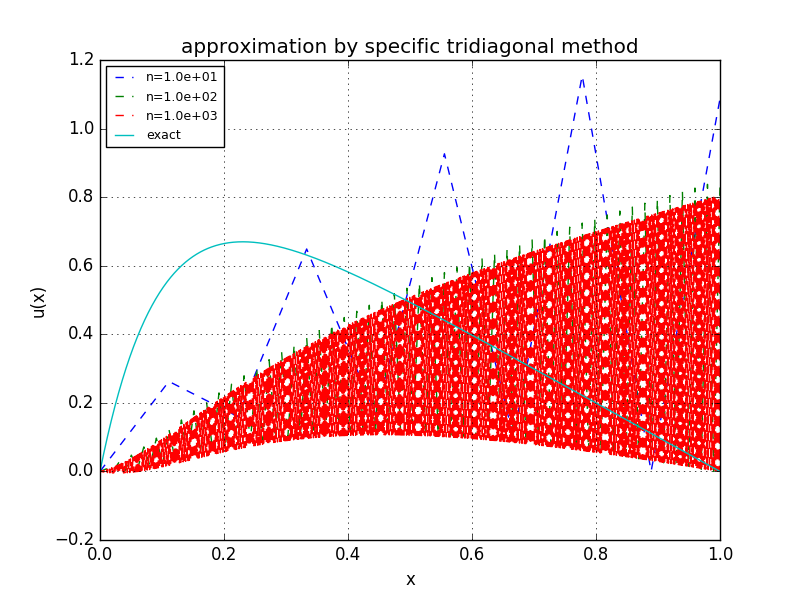
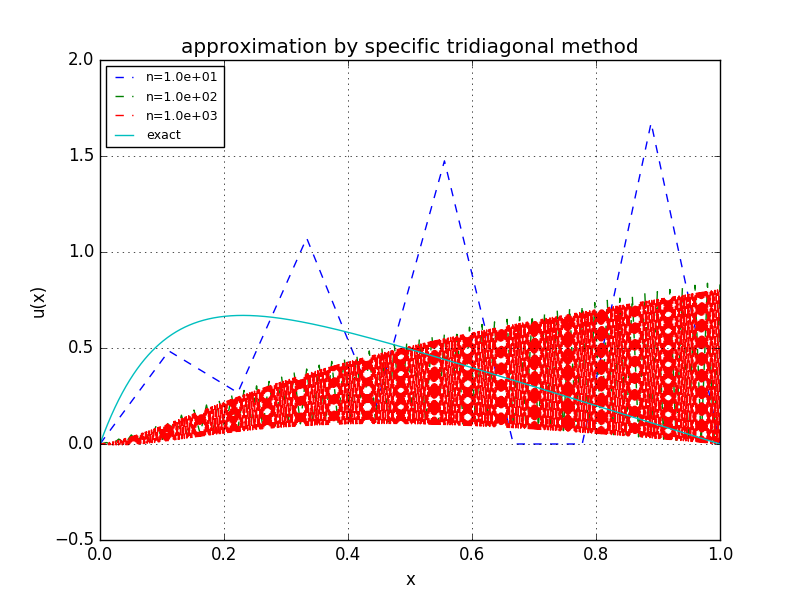
specific-function has correct shape... FINALLY! need to fix epsilon in plotting program

diff --git a/double_derivative.py b/double_derivative.py
@@ -66,24 +66,19 @@ def general_tridiag(a, b, c, y):
         u[i] = (y[i] - u[i+1]*c[i])/float(b[i])
     return u
 
-def specific_tridiag(y, test=False):
-    #arg: vertical array of solution
-    n = len(y)#number of matrix operations
+def specific_tridiag(y):
+    #args: arrays for tridiagonal matrix (below, on and above), array for vertical solution
+    n = len(y) #number of matrix operations
     u = np.zeros(n) #first and last value must remain zero, dirichlet BC
+    d = np.array([(i+1)/float(i) for i in range(1,n)])
     #forward substitution
-    for i in range(1,n): #do not change vert[0] and vert[1]
-        y[i] += (i-1)*y[i-1]/float(i) #2flop #y_i = y_i - (i-1)y_(i-1)/i
+    for i in range(1,n-1): #do not change vert[0] and vert[1]
+        y[i] = y[i] - y[i-1]/float(d[i-1])
     #backward subtitution
-    u[n-1] = y[n-1]*(n-1)/float(n) # u_n = y_n/b_n 
-    for i in reversed(xrange(1,n-1)):
-        u[i-1] = (i-1)*(y[i-1] - u[i])/float(i) #u_(i-1) = (y_(i-1) - u_i)*(i-1)/i
-        
-    if test:
-        d = np.array([-(i+1)/float(i) for i in range(n)]) #array of diagonals
-        print "relative error of diagonal array in func:u_spec\n", test_diag(d)
-        return u
-    else:
-        return u
+    u[n-2] = y[n-2]/d[n-2] #second to last array-element
+    for i in reversed(xrange(1,n-2)):
+        u[i] = (y[i] + u[i+1])/float(d[i])
+    return u
 
 def general_LU_decomp(A_matrix, vert):
     if len(vert)>1000:
@@ -126,7 +121,10 @@ t1 = time.clock()
 t_gen = t1 - t0
 
 #specific gaussian elimination of tri-diagonal matrix
-u_spec = specific_tridiag(y)
+u_spec = specific_tridiag_3(y)
+pl.plot(x,u_spec, x, u_gen)
+pl.show()
+sys.exit()
 t2 = time.clock()
 t_spec = t2 - t1
 

diff --git a/plot_stuff.py b/plot_stuff.py
@@ -143,16 +143,7 @@ def epsilon_plots(n_range=[10,100,1000]):
         x = pyl.array(data_dict["n=%d"%n]["x"])
         u = u_exact(x) #+1.0 #add one to avoid divide-by-zero
         v = pyl.array(data_dict["n=%d"%n]["u_gen"]) #+1.0 #add one to avoid divide-by-zero
-        #print max(v), min(v)
-        #print max(v), min(v)
-        #print abs((max(v)-max(u))/max(u)), abs((min(v)-min(u))/min(u))
-        eps = pyl.zeros(len(v)) #eps = pyl.log10(abs((v-u)/u))
-        for j in range(len(eps)):
-            eps[j] = pyl.log10(abs((v[j]-u[j])/u[j]))
-            print abs((v[j]-u[j])/u[j])
-            print u[j]                      
-            print eps[j]
-            print " "
+        eps = pyl.log10(abs((v-u)/u))
         eps_max[i] = max(eps)
         sys.exit()
         h[i] = pyl.log10(1.0/(n+1))
@@ -169,9 +160,9 @@ def epsilon_plots(n_range=[10,100,1000]):
     pyl.savefig(curdir+"/img/epsilon.png")
 
 #make plots
-compare_methods(n=1000)
-#pyl.show()
-compare_approx_n(approx_string="general")
+#compare_methods(n=1000)
+#compare_approx_n(approx_string="general")
 compare_approx_n(approx_string="specific")
-epsilon_plots()
+pyl.show()
+#epsilon_plots()
 #pyl.show()
